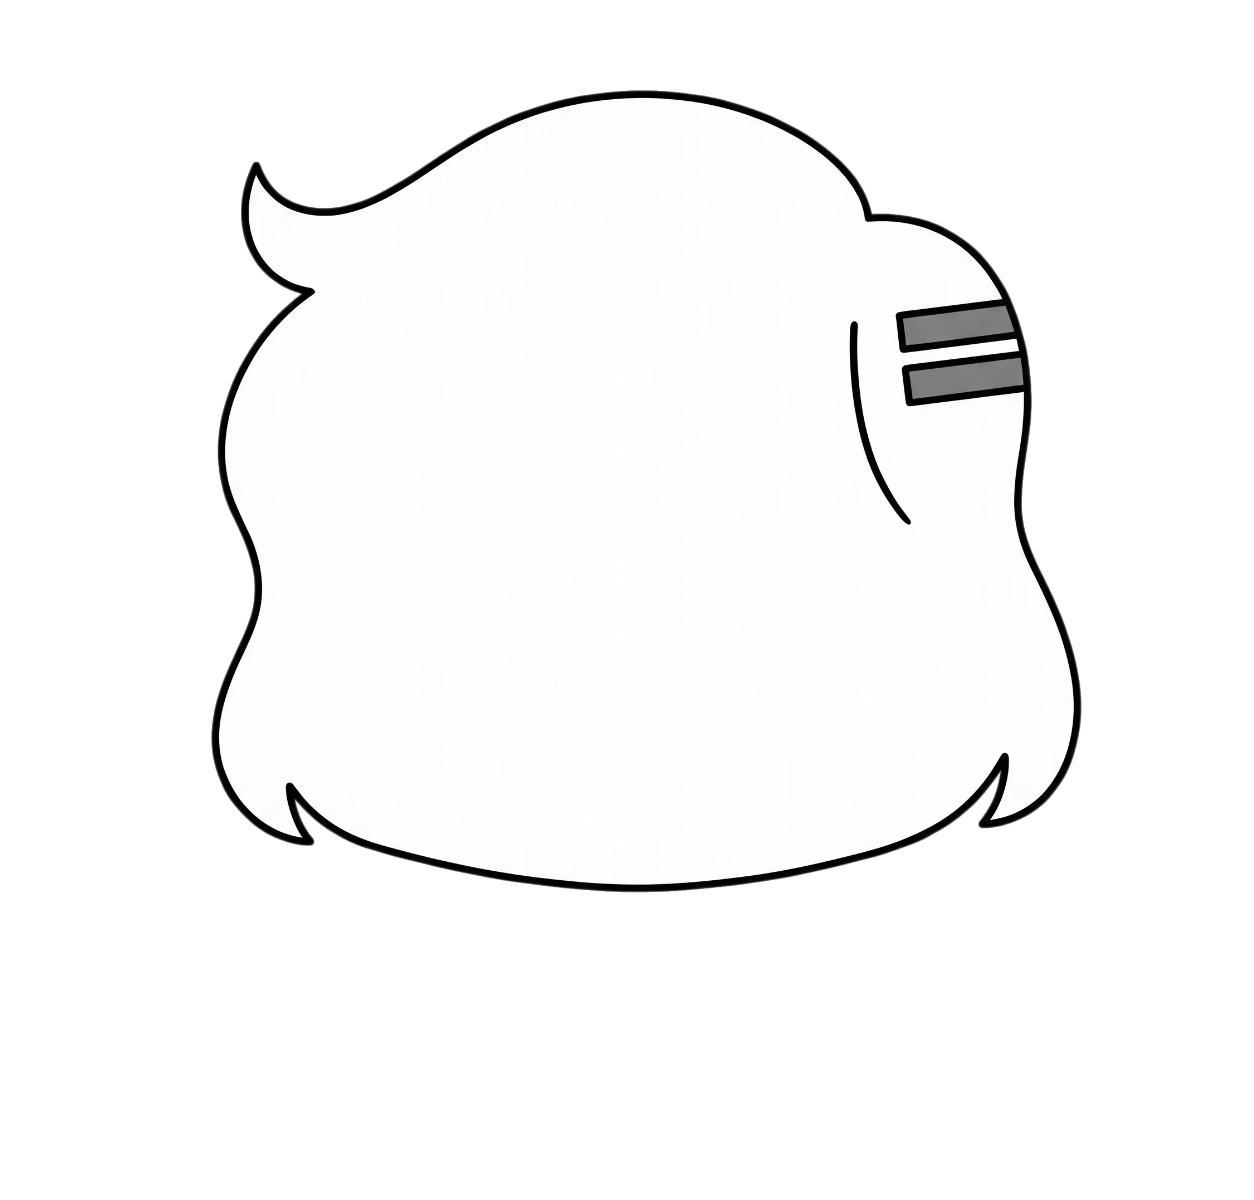
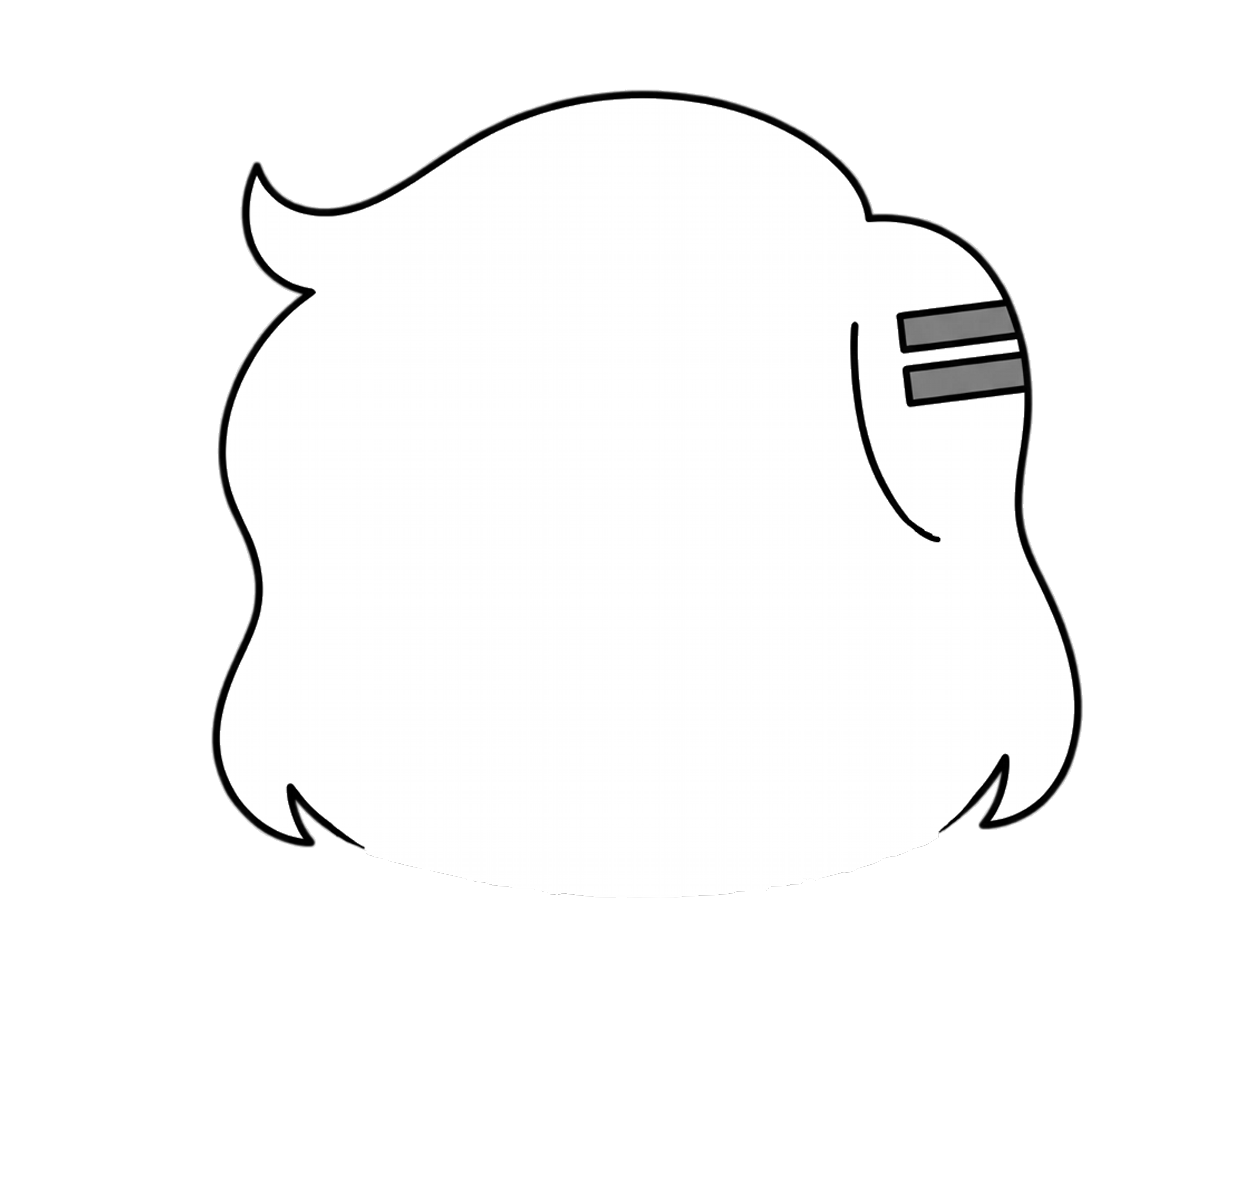
Usa la cara, el pelo de la cabeza y el flequillo retocados a mano
- Nuevas piezas 3.1-3.3 (PNG con transparencia); se alinean solas contra
  las versiones anteriores ya colocadas
- alinear.cargar(): lee PNG transparentes y limpia restos de magenta
- La cara retocada sustituye a la recortada del busto; el mechón largo
  baja junto al ojo derecho como en el dibujo original

Claude-Session: https://claude.ai/code/session_01J8M6TSfw5fuZ7gZYcXDUvE

diff --git a/vtuber/herramientas/preparar_piezas.py b/vtuber/herramientas/preparar_piezas.py
@@ -40,6 +40,10 @@ F = {
     "boca_a": "Boca abierta (A).jpg",
     "boca_o": "Boca media (O).jpg",
     "rubor": "2.4 · Rubor.jpg",
+    # versiones retocadas a mano (ya en su sitio: se alinean contra las anteriores)
+    "cara_editada": "3.1 · Cara (editada).png",
+    "pelo_cabeza_editado": "3.2 · Pelo de atrás (editado).png",
+    "flequillo_editado": "3.3 · Flequillo (editado).png",
 }
 
 # Zonas útiles de cada pieza (x0, y0, x1, y1), en sus propias coordenadas
@@ -57,12 +61,17 @@ CAJAS = {
     "boca_a": [(740, 1000, 1050, 1400)],
     "boca_o": [(800, 1100, 990, 1340)],
     "rubor": [(420, 1140, 1360, 1320)],
+    # en las retocadas se descarta lo casi transparente (bordes de capa del programa de dibujo)
+    "cara_editada": [(0, 0, 10000, 10000)],
+    "pelo_cabeza_editado": [(0, 0, 10000, 10000)],
+    "flequillo_editado": [(0, 0, 10000, 10000)],
 }
 
 
 def pieza(nombre, espejo=False):
-    gris, alfa = al.desmezclar(PIEZAS / F[nombre])
-    alfa = al.componentes_nitidas(alfa, CAJAS[nombre])
+    gris, alfa = al.cargar(PIEZAS / F[nombre])
+    if nombre in CAJAS:
+        alfa = al.componentes_nitidas(alfa, CAJAS[nombre])
     if espejo:
         gris, alfa = gris[:, ::-1].copy(), alfa[:, ::-1].copy()
     return gris, alfa
@@ -79,6 +88,9 @@ SEMILLAS = {
     "pelo_cabeza": (0.558, 127.1, -39.2),
     "flequillo": (0.70, 0.1, -204.4),
     "ojos": (0.41, 260.8, 137.9),
+    "cara_editada": (0.997, 185.3, 22.8),
+    "pelo_cabeza_editado": (1.115, 128.9, -38.7),
+    "flequillo_editado": (0.833, 6.3, -198.6),
 }
 
 
@@ -106,8 +118,17 @@ def calcular_alineacion():
                                 ("flequillo", ref_busto, False), ("ojos", ref_ojos, False)):
         gg, aa = pieza(nombre, espejo)
         t[nombre] = al.ajustar_desde(ref, al.lineas(gg, aa), variantes(*SEMILLAS[nombre]))
+    # las piezas retocadas a mano se alinean contra la versión anterior ya colocada
+    for nueva, vieja in (("pelo_cabeza_editado", "pelo_cabeza"), ("flequillo_editado", "flequillo")):
+        vg, va = colocar_pieza(*pieza(vieja), t[vieja][1:], (W, H))
+        gg, aa = pieza(nueva)
+        t[nueva] = al.ajustar_desde(al.lineas(vg, va), al.lineas(gg, aa), variantes(*SEMILLAS[nueva]))
+    ref_cara = np.zeros_like(ref_busto)
+    ref_cara[520:760, 330:935] = ref_busto[520:760, 330:935]     # contorno de la cara bajo los ojos
+    gg, aa = pieza("cara_editada")
+    t["cara_editada"] = al.ajustar_desde(ref_cara, al.lineas(gg, aa), variantes(*SEMILLAS["cara_editada"]))
     for k, v in t.items():
-        print(f"  {k:12} error {v[0]:.2f}px  escala {v[1]:.3f}  dx {v[2]:.1f}  dy {v[3]:.1f}")
+        print(f"  {k:20} error {v[0]:.2f}px  escala {v[1]:.3f}  dx {v[2]:.1f}  dy {v[3]:.1f}")
     datos = {k: {"error": round(v[0], 3), "escala": v[1], "dx": v[2], "dy": v[3]} for k, v in t.items()}
     ALINEACION.write_text(json.dumps(datos, indent=2, ensure_ascii=False))
     return datos
@@ -173,28 +194,6 @@ def separar_brazos(g, a, torso_a, pelo_g, pelo_a):
     return brazos & (a > 0.3)
 
 
-def cara_del_busto():
-    """La cara del busto original sin ojos, boca ni líneas que ahora aportan otras piezas."""
-    gris = cv2.imread(str(RAIZ / "arte" / "busto.png"), cv2.IMREAD_GRAYSCALE)[:H].astype(np.float32) / 255
-    mascara = np.zeros_like(gris, bool)
-    for y in range(444, 752):
-        oscuros = np.flatnonzero(gris[y, 330:935] < 0.5)
-        if oscuros.size == 0:
-            continue
-        izq, der = 330 + oscuros[0], 330 + oscuros[-1]
-        mascara[y, izq:der + 1] = True
-        if y < 604:   # entre los contornos: ojos y la línea bajo el flequillo
-            gris[y, izq + 8:der - 7] = 1
-    gris[622:672, 582:684] = 1          # boca
-    for x0, x1 in ((570, 582), (682, 694)):     # arranque del cuello bajo la barbilla
-        gris[751:, x0:x1] = 1
-    # borde suave: la barbilla entera y sin un corte seco por debajo
-    mascara = cv2.dilate(mascara.astype(np.uint8), cv2.getStructuringElement(cv2.MORPH_ELLIPSE, (9, 9)))
-    mascara = cv2.GaussianBlur(mascara.astype(np.float32), (0, 0), 1.5)
-    mascara = np.clip(mascara * 1.6, 0, 1)
-    return gris, mascara
-
-
 def montar(t):
     DESTINO.mkdir(parents=True, exist_ok=True)
     T = {k: (v["escala"], v["dx"], v["dy"]) for k, v in t.items()}
@@ -221,7 +220,8 @@ def montar(t):
 
     lg, la = al_lienzo(lg, la)
     # lo que queda bajo el pelo de la cabeza no se ve: fuera, para que no asome su contorno
-    hg, ha = colocar_pieza(*pieza("pelo_cabeza"), al.componer(T["pelo_cabeza"], busto_a_lienzo), (LW, LH))
+    hg, ha = colocar_pieza(*pieza("pelo_cabeza_editado"),
+                           al.componer(T["pelo_cabeza_editado"], busto_a_lienzo), (LW, LH))
     # el pelo largo de la maestra es algo más ancho que el de la cabeza: alrededor
     # de la cabeza se quita para que no salga un contorno doble
     tapado = cv2.dilate((ha > 0.5).astype(np.uint8), cv2.getStructuringElement(cv2.MORPH_ELLIPSE, (81, 81))) > 0
@@ -237,16 +237,11 @@ def montar(t):
 
     # --- cabeza, en coordenadas del busto
     tam_b = (W, H)
-    guardar("pelo_cabeza", *colocar_pieza(*pieza("pelo_cabeza"), T["pelo_cabeza"], tam_b))
-    fg, fa = pieza("flequillo")
-    # el borde de arriba del flequillo sobra: ahí se funde con el resto del pelo
-    dentro = (fa > 0.5).astype(np.uint8)
-    arriba = np.zeros_like(dentro)
-    arriba[14:] = dentro[:-14]                 # ¿hay flequillo 14 px más arriba?
-    borde_sup = (dentro > 0) & (arriba == 0)
-    fg = np.where(borde_sup | (fg > 0.6) | (fa < 0.6), 1, fg)
-    guardar("flequillo", *colocar_pieza(fg, fa, T["flequillo"], tam_b))
-    guardar("cara", *cara_del_busto())
+    for capa, nombre in (("pelo_cabeza", "pelo_cabeza_editado"), ("flequillo", "flequillo_editado"),
+                         ("cara", "cara_editada")):
+        gg, aa = pieza(nombre)
+        gg = np.where(gg > 0.8, 1, gg)     # rayitas grises casi blancas del relleno: fuera
+        guardar(capa, *colocar_pieza(gg, aa, T[nombre], tam_b))
     guardar("ojos_blanco", *colocar_pieza(*pieza("ojos"), T["ojos"], tam_b))
 
     pegatinas = {}

diff --git a/vtuber/herramientas/alinear.py b/vtuber/herramientas/alinear.py
@@ -10,6 +10,22 @@ import cv2
 import numpy as np
 
 
+def cargar(ruta):
+    """Como desmezclar(), pero acepta también PNG con transparencia propia.
+
+    Si quedan restos de magenta en los bordes se tratan igual: g = k·gris y
+    R = B = k·gris + (1 - k), así que k = 1 - (R - G) y gris = G / k.
+    """
+    img = cv2.imread(str(ruta), cv2.IMREAD_UNCHANGED)
+    if img.ndim == 2 or img.shape[2] == 3:
+        return desmezclar(ruta)
+    bgra = img.astype(np.float32) / 255
+    b, g, r, a = bgra[..., 0], bgra[..., 1], bgra[..., 2], bgra[..., 3]
+    k = np.clip(1 - (np.minimum(r, b) - g), 0, 1)
+    gris = np.where(k > 0.02, g / np.maximum(k, 0.02), 1)
+    return np.clip(gris, 0, 1), a * k
+
+
 def desmezclar(ruta):
     """Imagen sobre magenta -> (gris, alfa) en float 0..1.
 
